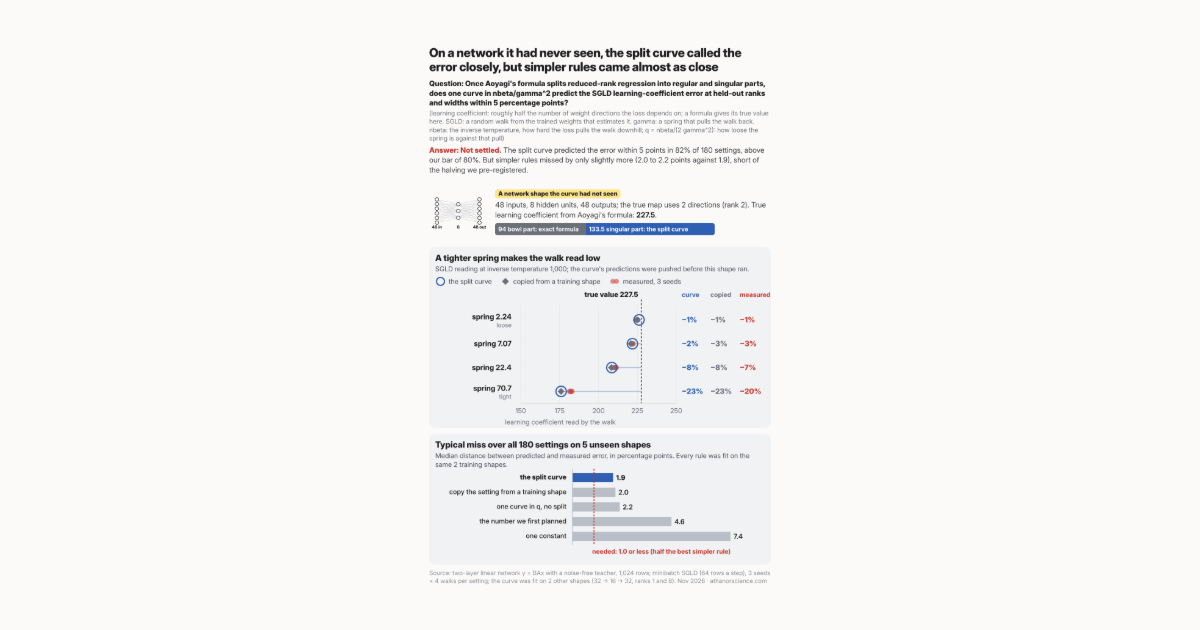
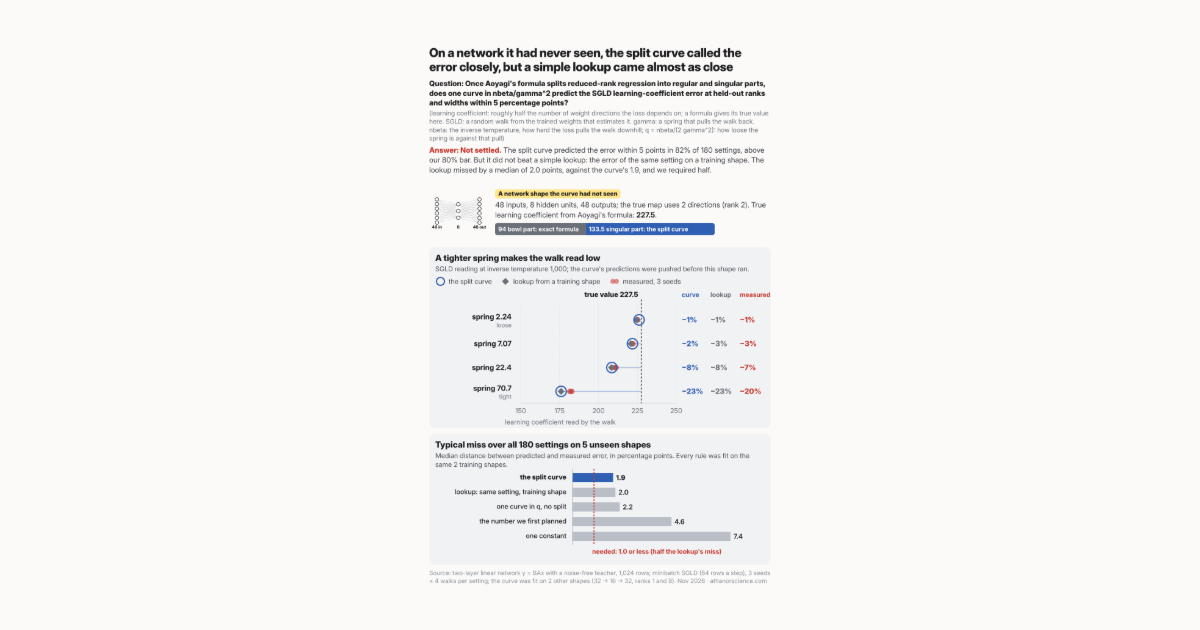
figure1 v06 (lookup term, gate 7/8) + build_main labels (Owain)

diff --git a/projects/llc-bias-law/figure1/gen.py b/projects/llc-bias-law/figure1/gen.py
@@ -168,7 +168,7 @@ o.append(f'<line x1="{X0}" y1="{Hc}" x2="{X1}" y2="{Hc}" stroke="#c9ccd2" stroke
 o.append("</svg>")
 chart = "".join(o)
 
-# ---- score strip: typical miss (median, points) of the curve and of the four frozen shortcuts ---------------------
+# ---- score strip: typical miss (median, points) of the curve and of the four frozen simpler rules ----------------
 SW, SL, SX0, SX1, SRH = 1120, 430, 450, 1010, 48
 SMAX = 2 * int(max(med.values()) // 2 + 1)
 
@@ -283,15 +283,15 @@ print(args.out)
 
 # ---- figure1_alt (YAML-safe: no inner double quotes) ---------------------------------------------------------------
 rows_txt = "; ".join(
-    f"spring {x['gamma']:.3g}: curve {pc(100 * x['e_pred'])}, shortcut {pc(100 * x['e_N4'])}, "
+    f"spring {x['gamma']:.3g}: curve {pc(100 * x['e_pred'])}, lookup {pc(100 * x['e_N4'])}, "
     f"measured {pc(100 * st.mean(x['e_seeds']))}" for x in ex_rows)
 meds_txt = "; ".join(f"{T['law_lab'][k]} {med[k]:.1f}" for k in order)
 alt = (f"Figure 1. Head: {F(T['head'])}. {F(T['q'])} {F(T['alt_answer'])} Example: a network shape the curve had "
        f"not seen, {M} inputs, {Hh} hidden units, {N} outputs, rank {r}; its true learning coefficient {lam:g} splits "
        f"into a bowl part {d_reg / 2:g} (exact formula) and a singular part {lam0:g} (the curve). At inverse "
-       f"temperature {NB:,} and four spring strengths, the error the curve predicted before the run, the shortcut's "
-       f"error (the training network's measured error at the same setting) and the measured error: {rows_txt}. Below, "
+       f"temperature {NB:,} and four spring strengths, the error the curve predicted before the run, the lookup's "
+       f"error (the measured error of the same setting on a training shape) and the measured error: {rows_txt}. Below, "
        f"the typical miss in points over all {n_all} settings on 5 unseen shapes: {meds_txt}; the test needed the "
-       f"curve at {need:.1f} or less, half the best shortcut.")
+       f"curve at {need:.1f} or less, half the lookup's miss.")
 alt = alt.replace('"', "'").replace("\u201c", "'").replace("\u201d", "'")
 (H / "alt.txt").write_text(alt + "\n")

diff --git a/projects/llc-bias-law/figures/build_main.py b/projects/llc-bias-law/figures/build_main.py
@@ -50,8 +50,8 @@ for c in prim:
     SHAPE[c["case"]] = f"{M} → {Hh} → {N}, rank {r}"
 
 LAB = {"L": "split law (the curve)", "L_z": "split law, shape-scaled (secondary)",
-       "N1": "one constant", "N2": "one curve, no split", "N3": "scout's number (step × nbeta / gamma)",
-       "N4": "nearest training setting"}
+       "N1": "one constant", "N2": "one curve, no split", "N3": "the number we first planned",
+       "N4": "lookup: same setting, training shape"}
 bars = sorted(({"law": k, "label": LAB[k], "share": share(k), "median": st.median([miss(c, k) for c in prim]),
                 "hero": k == "L"} for k in LAB), key=lambda d: d["median"])
 need = 0.5 * min(P["nulls"][n]["median_miss"] for n in ("N1", "N2", "N3", "N4"))
